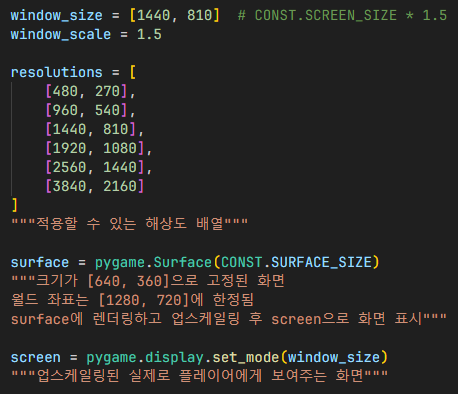
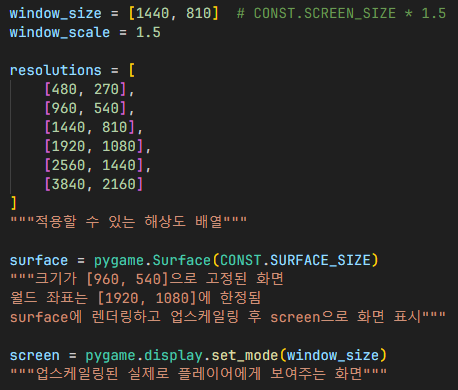
오타 수정

diff --git a/components/config.py b/components/config.py
@@ -52,8 +52,8 @@ class CONFIG:
     """적용할 수 있는 해상도 배열"""
 
     surface = pygame.Surface(CONST.SURFACE_SIZE)
-    """크기가 [640, 360]으로 고정된 화면
-    월드 좌표는 [1280, 720]에 한정됨
+    """크기가 [960, 540]으로 고정된 화면
+    월드 좌표는 [1920, 1080]에 한정됨
     surface에 렌더링하고 업스케일링 후 screen으로 화면 표시"""
 
     screen = pygame.display.set_mode(window_size)
